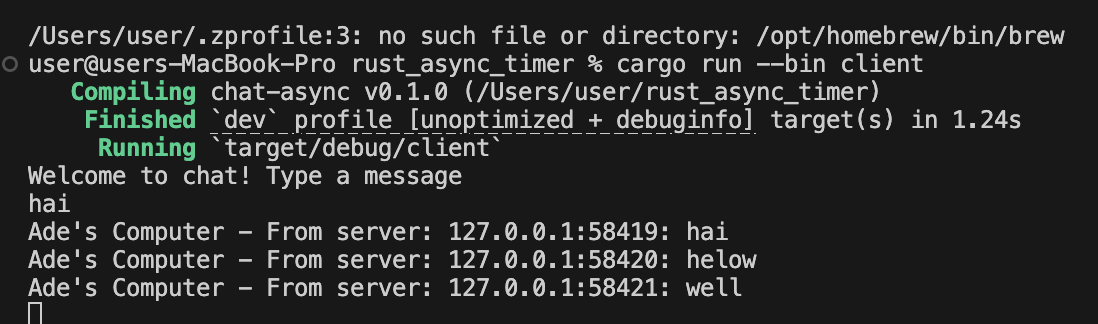
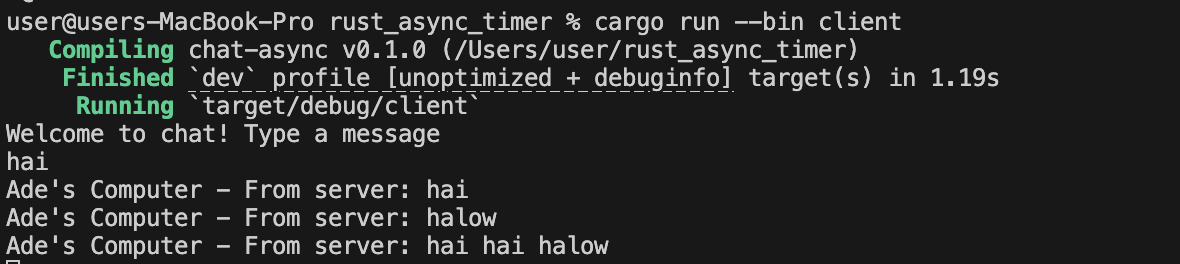
Experiment 2.3: Small changes, add IP and Port

Changed region(s): [[0.0, 0.0303, 0.9909, 1.0]]

diff --git a/src/bin/server.rs b/src/bin/server.rs
@@ -28,11 +28,9 @@ async fn handle_connection(
                 if let Some(text) = msg.as_text() {
                     println!("From client {addr} {text:?}");
                     
-                    // Format Eksperimen 2.3: Tambahkan IP dan Port pengirim!
-                    let formatted_msg = format!("{}: {}", addr, text);
-                    
-                    // Siarkan pesan ke SEMUA klien lain yang terhubung
-                    let _ = bcast_tx.send(formatted_msg);
+                    // KODE ASLI 2.1 & 2.2: 
+                    // Langsung siarkan teks aslinya tanpa format tambahan IP/Port
+                    let _ = bcast_tx.send(text.to_string());
                 }
             }
             // PINTU 2: Mendengarkan pesan dari Klien LAIN yang disiarkan oleh Server
@@ -49,16 +47,15 @@ async fn handle_connection(
 async fn main() -> Result<(), Box<dyn Error + Send + Sync>> {
     let (bcast_tx, _) = channel(16);
 
-    let listener = TcpListener::bind("127.0.0.1:2000").await?;
-    println!("listening on port 2000");
+    let listener = TcpListener::bind("127.0.0.1:8080").await?;
+    println!("listening on port 8080");
 
     loop {
         let (socket, addr) = listener.accept().await?;
         println!("New connection from {addr:?}");
         let bcast_tx = bcast_tx.clone();
+        
         tokio::spawn(async move {
-            // Kita menggunakan 'if let' sebagai ganti dari tanda '?'
-            // Jika koneksi websocket sukses (Ok), maka jalankan handle_connection
             if let Ok((_req, ws_stream)) = ServerBuilder::new().accept(socket).await {
                 let _ = handle_connection(addr, ws_stream, bcast_tx).await;
             } else {

diff --git a/src/bin/client.rs b/src/bin/client.rs
@@ -7,7 +7,7 @@ use tokio_websockets::{ClientBuilder, Message};
 #[tokio::main]
 async fn main() -> Result<(), tokio_websockets::Error> {
     let (mut ws_stream, _) =
-        ClientBuilder::from_uri(Uri::from_static("ws://127.0.0.1:2000"))
+        ClientBuilder::from_uri(Uri::from_static("ws://127.0.0.1:8080"))
             .connect()
             .await?;
 

diff --git a/readme.md b/readme.md
@@ -7,9 +7,20 @@ Executor (melalui fungsi executor.run()) dirancang untuk terus mendengarkan dan 
 
 
 TUTORIAL 2
-1. ![Eksperimen 2.1 - server](images/2.1_server.png.png)
+1. ![Eksperimen 2.1 - server](images/2.1_server.png)
 ![Eksperimen 2.1 - client 1](images/2.1_client_1.png)
 ![Eksperimen 2.1 - client 2](images/2.1_client_2.png)
 ![Eksperimen 2.1 - client 3](images/2.1_client_3.png)
 Untuk menjalankan aplikasi ini, jalankan perintah cargo run --bin server di satu terminal, lalu buka tiga terminal baru dan jalankan cargo run --bin client di masing-masing terminal tersebut. Saat kita mengetik dan mengirim pesan dari salah satu klien, pesan itu akan dikirim ke server melalui jaringan WebSocket. Server kemudian bertindak sebagai pusat siaran (broadcaster) yang langsung meneruskan pesan tersebut ke semua klien lain yang sedang terhubung, sehingga obrolan muncul di layar semua orang secara real-time.
 
+2. ![Eksperimen 2.2 - server](images/2.2_server.png)
+![Eksperimen 2.2 - client 1](images/2.2_client_1.png)
+![Eksperimen 2.2 - client 2](images/2.2_client_2.png)
+![Eksperimen 2.2 - client 3](images/2.2_client_3.png)
+Pada Eksperimen 2.2, port WebSocket diubah dari 2000 menjadi 8080. Perubahan ini dilakukan pada dua file sekaligus, yaitu server.rs (lokasi server membuka jalur/mendengarkan) dan client.rs (lokasi klien memanggil koneksi). Kedua file ini harus diubah bersamaan karena komunikasi jaringan membutuhkan keselarasan alamat antara pengirim dan penerima. Jika server pindah membuka "pintu" di port 8080, maka klien juga wajib diarahkan ke pintu 8080 tersebut agar koneksi protokol ws:// bisa terhubung dengan sukses.
+
+3. ![Eksperimen 2.3 - server](images/2.3_server.png)
+![Eksperimen 2.3 - client 1](images/2.3_client_1.png)
+![Eksperimen 2.3 - client 2](images/2.3_client_2.png)
+![Eksperimen 2.3 - client 3](images/2.3_client_3.png)
+Pada Eksperimen 2.3, kita memodifikasi kode untuk menampilkan informasi IP dan Port pengirim pada setiap pesan karena aplikasi belum memiliki fitur username. Modifikasi ini cukup dilakukan di sisi server (server.rs). Alasannya, server adalah pihak pengelola jaringan yang mengetahui alamat koneksi (SocketAddr) dari setiap klien. Saat menerima pesan dari sebuah klien, server akan menggabungkan IP dan Port klien tersebut dengan isi pesannya, barulah kemudian pesan lengkap itu disiarkan (broadcast) ke seluruh klien lain yang terhubung.
